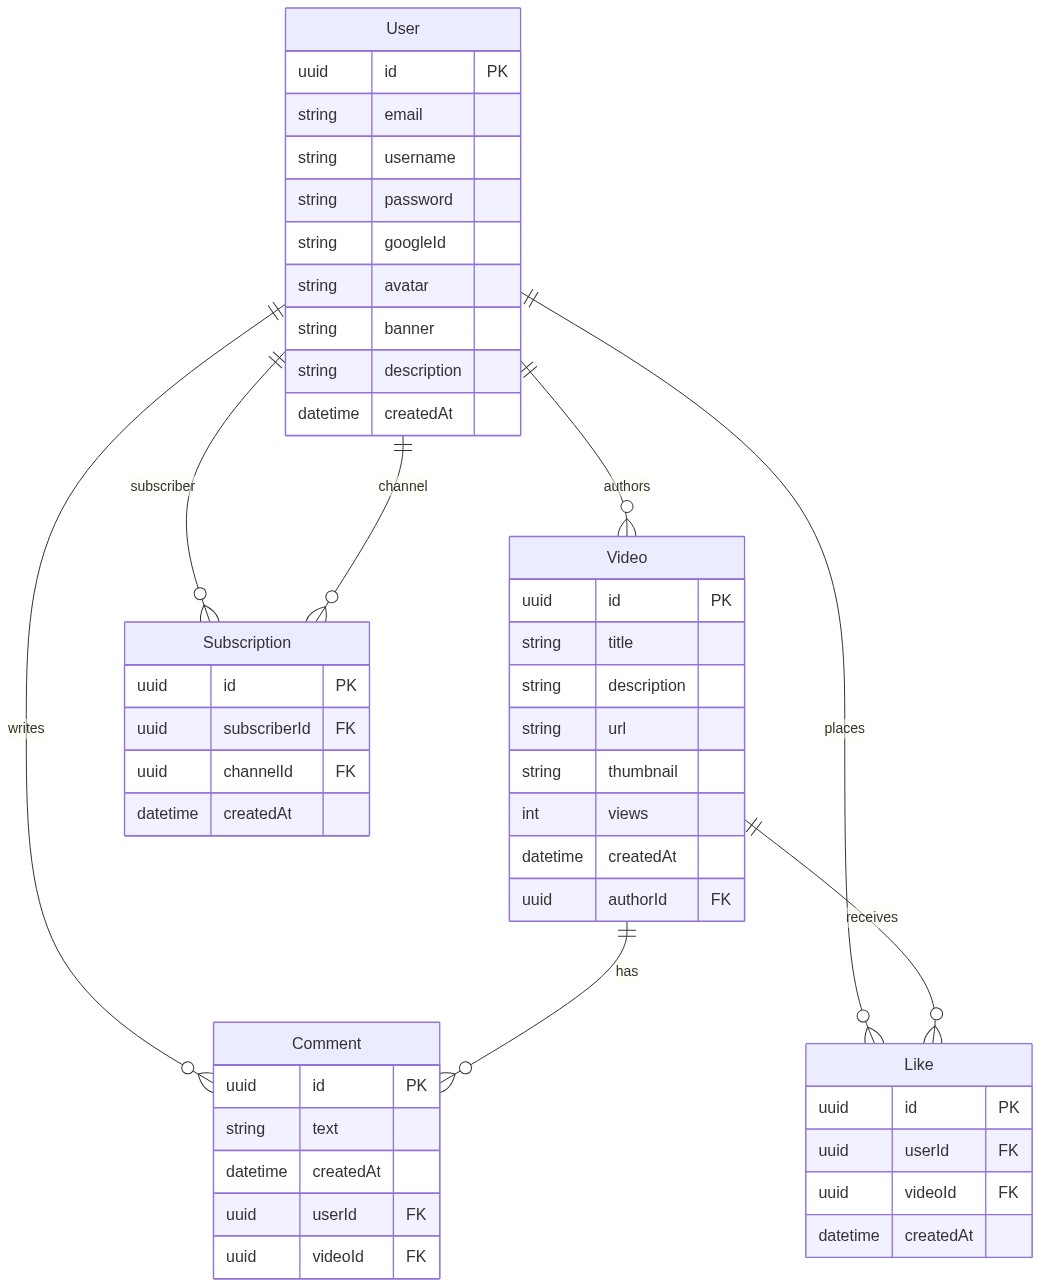
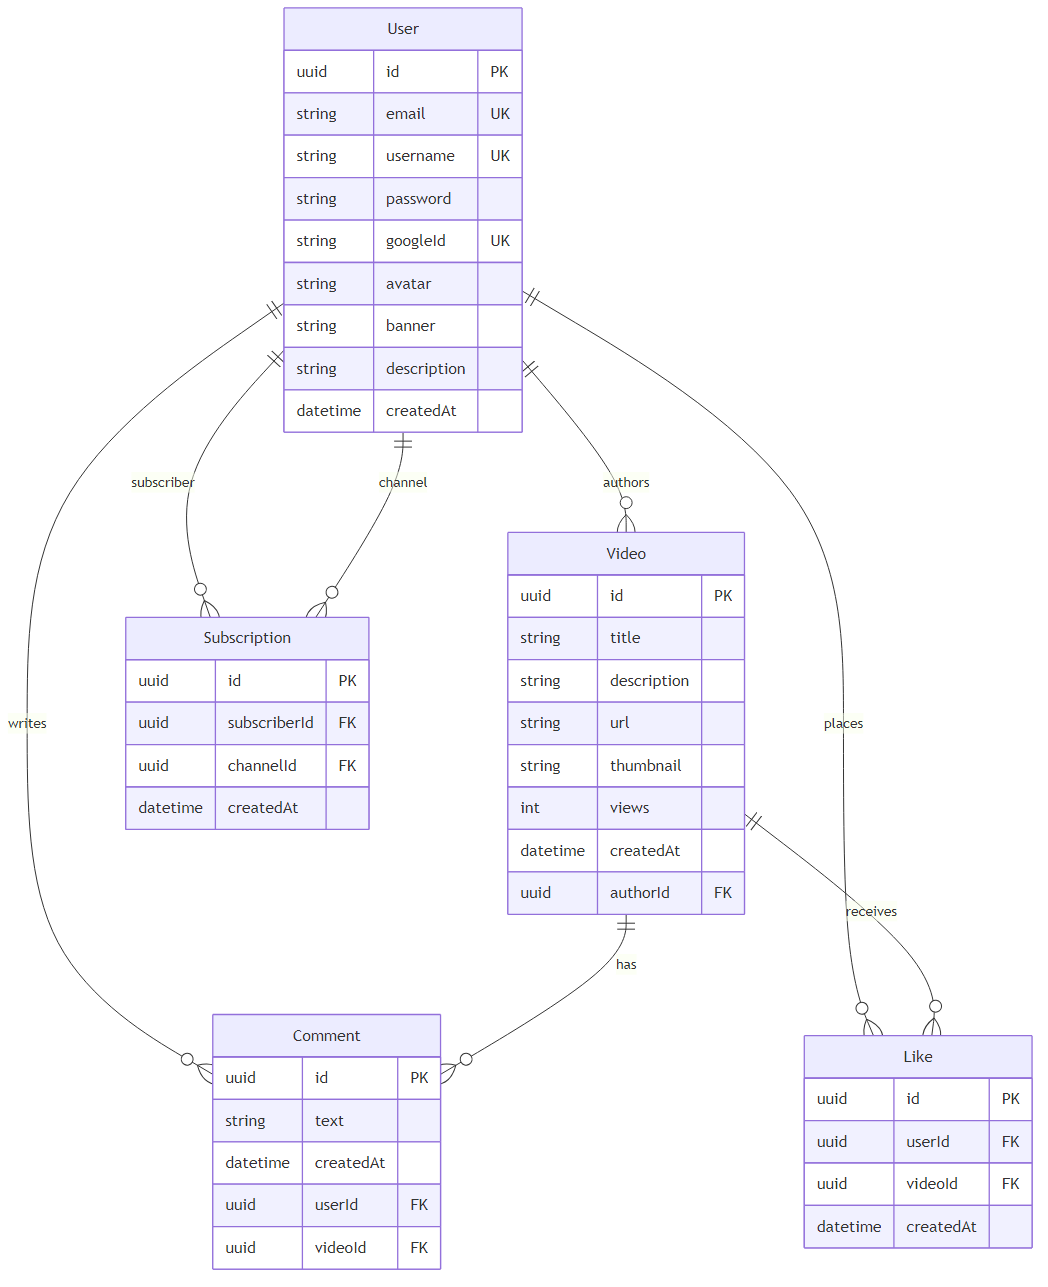
lab1: spec criteria - entity rule + UK markers + render sync

diff --git a/Labs/lab1-er/spec.md b/Labs/lab1-er/spec.md
@@ -59,10 +59,17 @@
 ## Критерії прийняття
 
 - [x] Кардинальності коректні (1:N, M:N)
-- [x] M:N зв'язки мають асоціативні сутності (Like, Subscription) - з власними атрибутами (createdAt), бо чистий M:N без атрибутів - це зв'язок а не сутність
+- [x] Правило асоціативної сутності: зв'язок стає сутністю ЛИШЕ якщо має власні атрибути. Чистий M:N без атрибутів - це нормальний зв'язок, а не помилка. Like і Subscription - сутності, бо мають createdAt (час дії - дані домену)
 - [x] Первинні ключі визначені для всіх сутностей
 - [x] Зовнішні ключі визначені
 - [x] Модель нормалізована (3NF - немає транзитивних залежностей)
-- [x] ER-рендер збігається з описом у spec
-- [x] Unique-обмеження на (userId, videoId) для Like і (subscriberId, channelId) для Subscription
-- [x] Unique на email, username, googleId в User
+- [x] Унікальність ВИДНО в моделі: окремі атрибути позначені маркером `UK` (видно в рендері); складені пари Like (userId, videoId) і Subscription (subscriberId, channelId) задокументовані текстом у spec, бо Mermaid erDiagram не має composite-UK - це реальне обмеження нотації
+- [x] Рендер PNG і drawio синхронні з source er.mmd
+- [x] Відмінності від джерельної схеми зафіксовані нижче
+
+## Відмінності від джерельної схеми (VideoHub, schema.prisma)
+
+Звірено построково з Prisma-моделлю реального проєкту:
+
+- `Like.createdAt` - у джерелі ВІДСУТНІЙ; додано свідомо: час лайку є даними домену (і обґрунтовує Like як сутність - див. adr-002).
+- Решта атрибутів, PK, FK та @@unique збігаються.
